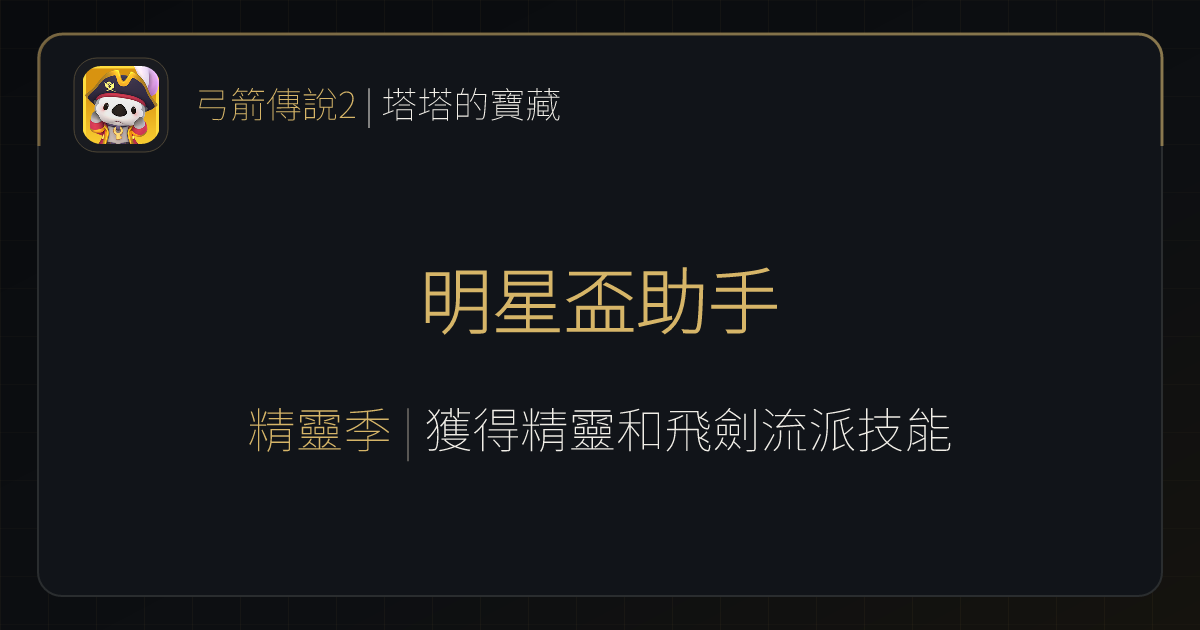
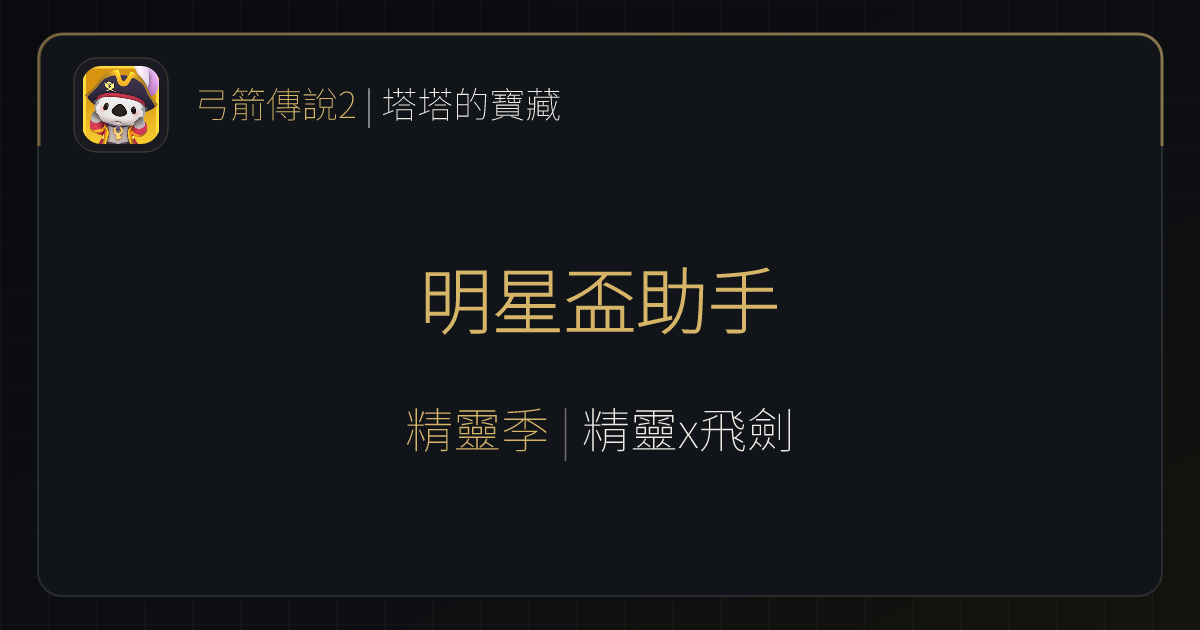
refactor: simplify star cup theme to 流派Ax流派B format
Rewrite theme across all 5 star cup seasons from the screenshot's full
sentence ("獲得精靈和飛劍流派技能") to just the two build names joined by
a lowercase x ("精靈x飛劍"). Super Star Cup keeps its season-level theme
("精靈季 1") unchanged — that field carries a different meaning.

Record the rule in all three places that govern extraction: the
screenshot-extract skill, the pre-match workflow, and the star cup doc.

Regenerate the social preview: theme feeds the OG description and preview
image for the latest season, and social-preview:check gates on it.

Changed region(s): [[0.2158, 0.6333, 0.8017, 0.7238]]

diff --git a/index.html b/index.html
@@ -4,12 +4,12 @@
   <meta charset="utf-8">
   <meta name="viewport" content="width=device-width,initial-scale=1">
   <!-- social-preview:start -->
-  <meta name="description" content="獲得精靈和飛劍流派技能｜查看各組對戰分析與推薦下注選手。">
+  <meta name="description" content="精靈x飛劍｜查看各組對戰分析與推薦下注選手。">
   <meta property="og:type" content="website">
   <meta property="og:locale" content="zh_TW">
   <meta property="og:site_name" content="弓箭傳說 2｜塔塔的寶藏">
   <meta property="og:title" content="塔塔的寶藏｜第五屆明星盃・精靈季">
-  <meta property="og:description" content="獲得精靈和飛劍流派技能｜查看各組對戰分析與推薦下注選手。">
+  <meta property="og:description" content="精靈x飛劍｜查看各組對戰分析與推薦下注選手。">
   <meta property="og:url" content="https://archero2.forevergame.org/">
   <meta property="og:image" content="https://archero2.forevergame.org/img/star-cup-preview-2026-08-14.png">
   <meta property="og:image:type" content="image/png">
@@ -18,7 +18,7 @@
   <meta property="og:image:alt" content="塔塔的寶藏｜第五屆明星盃・精靈季｜對戰分析與下注建議">
   <meta name="twitter:card" content="summary_large_image">
   <meta name="twitter:title" content="塔塔的寶藏｜第五屆明星盃・精靈季">
-  <meta name="twitter:description" content="獲得精靈和飛劍流派技能｜查看各組對戰分析與推薦下注選手。">
+  <meta name="twitter:description" content="精靈x飛劍｜查看各組對戰分析與推薦下注選手。">
   <meta name="twitter:image" content="https://archero2.forevergame.org/img/star-cup-preview-2026-08-14.png">
   <link rel="canonical" href="https://archero2.forevergame.org/">
   <!-- social-preview:end -->

diff --git a/docs/star-cup/star-cup.md b/docs/star-cup/star-cup.md
@@ -22,12 +22,15 @@
 
 | 欄位     | 語意                         | 例                       |
 | -------- | ---------------------------- | ------------------------ |
-| `theme`  | 該屆的流派主題               | `獲得飛劍和元素流派技能` |
+| `theme`  | 該屆的流派主題               | `飛劍x元素`              |
 | `season` | 跨屆的季主題（數屆共用）     | `精靈季`                 |
 
-第 3～5 屆同屬「精靈季」，各屆流派主題依序為「獲得精靈和主武器流派技能」、
-「獲得精靈和旋轉球流派技能」、「獲得精靈和飛劍流派技能」。
-第 1、2 屆同屬「飛劍季」。
+`theme` 一律記成 **`流派Ax流派B`** 的簡化寫法：截圖頂部的原句是「獲得精靈和飛劍
+流派技能」，只取兩個流派名、以半形小寫 `x` 相接，寫成 `精靈x飛劍`。不保留「獲得」、
+「和」、「流派技能」等贅字，也不加空白。流派名照截圖原字，不自行翻譯或縮寫。
+
+第 3～5 屆同屬「精靈季」，各屆流派主題依序為 `精靈x主武器`、`精靈x旋轉球`、
+`精靈x飛劍`。第 1、2 屆同屬「飛劍季」，依序為 `飛劍x元素`、`飛劍x流星`。
 季主題與屆主題應分別記入 `season` 與 `theme`，不可把季主題塞進屆主題欄位。
 超級明星盃**不分兩層**——它一輪一個主題，沿用單一 `theme` 欄位（如 `精靈季 1`）。
 

diff --git a/notes/workflows/star-cup-pre-match-workflow.md b/notes/workflows/star-cup-pre-match-workflow.md
@@ -44,7 +44,9 @@ screenshots/star-cup/<YYYY-MM-DD-roundN-rank>/Screenshot_*.png
 
 約 10 張連拍捲動截圖，涵蓋排行榜前 70 名左右。讀圖注意（2026-07-17 實測）：
 
-- **本期主題**只出現在此畫面頂部（對陣圖上沒有），是 `theme` 欄位唯一來源。
+- **本期主題**只出現在此畫面頂部（對陣圖上沒有），是 `theme` 欄位唯一來源。畫面原句形如
+  「獲得精靈和飛劍流派技能」，寫入 `theme` 前要簡化成 `流派Ax流派B`（本例為 `精靈x飛劍`）：
+  只取兩個流派名、以半形小寫 `x` 相接，去掉「獲得／和／流派技能」且不加空白，流派名照原字。
 - 畫面底部固定釘著「自己的名次列」，會遮住每張截圖最下面一列，也使第 71 名以後讀不到；相鄰截圖有 1–2 列重疊，靠重疊補回被遮的列。
 - 稱號可能被頭像遮住首字（例：吐司夾蛋「?放戰線」）——照可見字形記錄並加 note，不得腦補。
 
